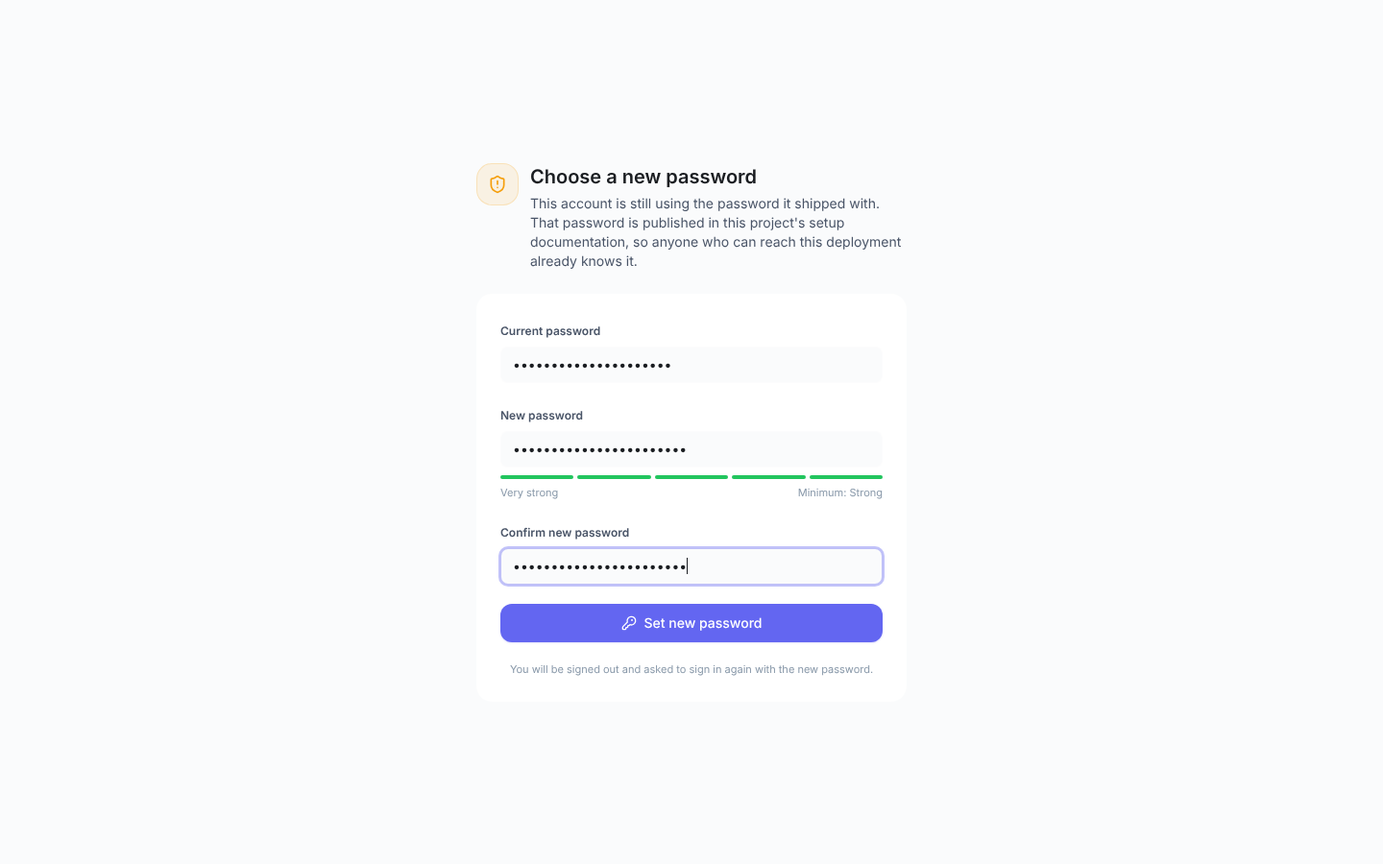
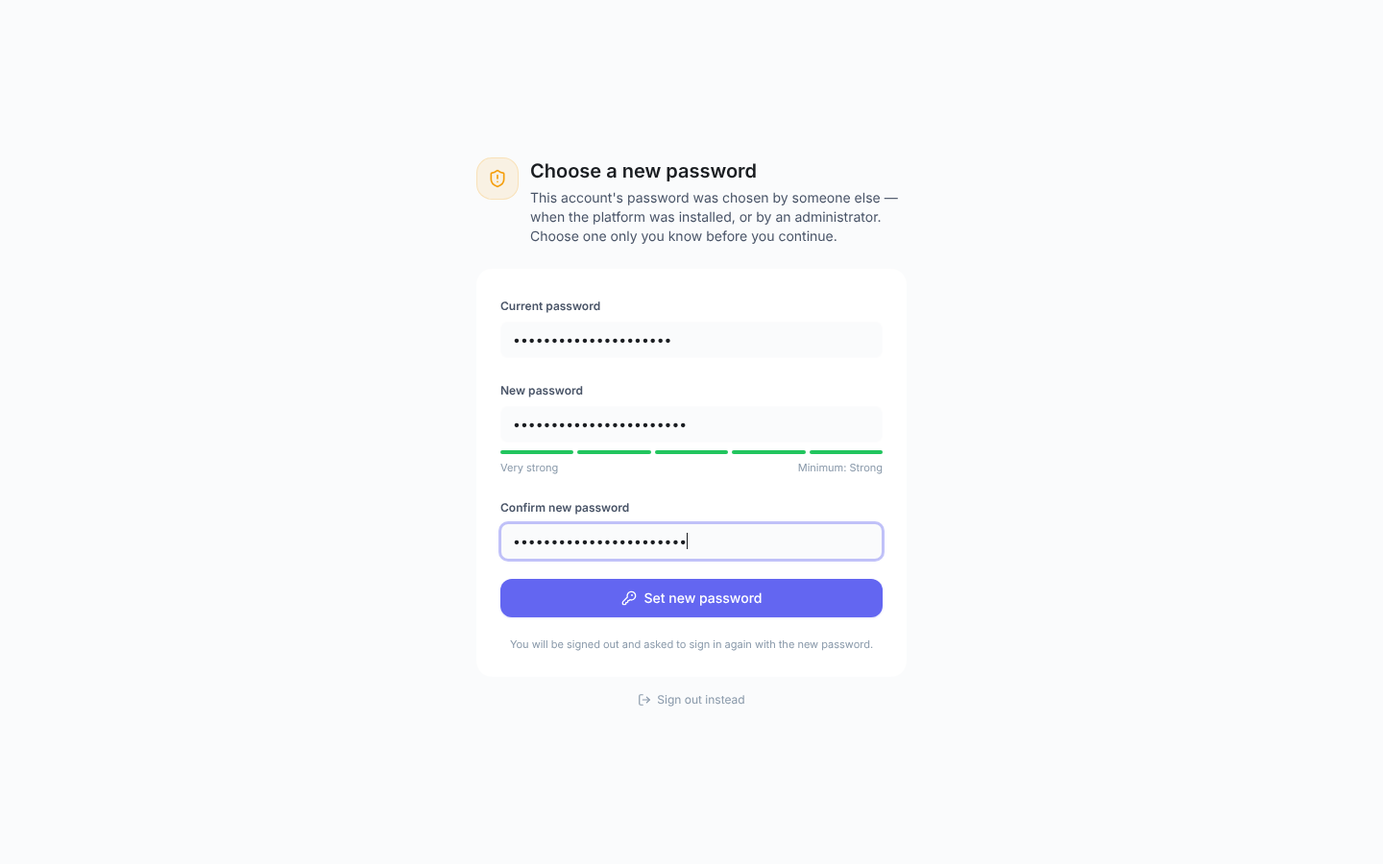
Docs: a password someone else chose is replaced, and the control plane keeps the audit trail
Every page that described the first sign-in said only a published
default password asks for a change. They now say the administrator
replaces whatever password it starts with, and that a password an
administrator sets is replaced the same way: Setup, Deployment's
hardening checklist (with a check that the starting password stops
working), Security Overview, Overview, Contributing, the sign-up plan,
local integration testing, the README and Quickstart, and the guide's
Admin Setup and Users & Access. The Setup page's screenshot of the
change screen is retaken for its new wording and its sign-out link.

The audit pages say the Audit Log reads the outbox and the control
plane's relay copies each event into auth_audit_log; the SSO pages say
the identity-provider health check runs in every API process.

The configuration reference describes ADMIN_PASSWORD's new behaviour.
Seeding reads ADMIN_EMAIL and ADMIN_PASSWORD through small helpers in
a form the generator recognises, so the reference keeps showing the
default email.

The CHANGELOG has Security and Upgrading notes, including that the
product-event retention sweep runs for the first time on upgrade.

Claude-Session: https://claude.ai/code/session_01UvFVgJNvfxynBhuauy9dBs

Changed region(s): [[0.3438, 0.4356, 0.6562, 0.7778], [0.3438, 0.1867, 0.6562, 0.3111], [0.375, 0.3422, 0.4375, 0.4044]]

diff --git a/backend/app/auth/bootstrap.py b/backend/app/auth/bootstrap.py
@@ -46,6 +46,14 @@ PUBLISHED_PASSWORDS = frozenset({
 })
 
 
+def admin_email() -> str:
+    """``ADMIN_EMAIL``, or the default when it is unset or empty."""
+    email = os.getenv("ADMIN_EMAIL")
+    if not email:
+        return DEFAULT_ADMIN_EMAIL
+    return email
+
+
 def starting_password() -> str:
     """``ADMIN_PASSWORD``, or the default when it is unset or empty.
 
@@ -53,7 +61,10 @@ def starting_password() -> str:
     refuses an empty password, so an administrator seeded with one could
     never sign in at all.
     """
-    return os.getenv("ADMIN_PASSWORD") or DEFAULT_ADMIN_PASSWORD
+    password = os.getenv("ADMIN_PASSWORD")
+    if not password:
+        return DEFAULT_ADMIN_PASSWORD
+    return password
 
 
 async def seed_system_admin(session: AsyncSession) -> Optional[str]:
@@ -65,7 +76,7 @@ async def seed_system_admin(session: AsyncSession) -> Optional[str]:
     """
     if await user_repo.count_users(session) != 0:
         return None
-    email = os.getenv("ADMIN_EMAIL") or DEFAULT_ADMIN_EMAIL
+    email = admin_email()
     user = await user_repo.create_user(
         session,
         email=email,

diff --git a/backend/scripts/export_config_reference.py b/backend/scripts/export_config_reference.py
@@ -118,10 +118,10 @@ NOTES: dict[str, tuple[str, str | None]] = {
         "A random shared secret, the same value for every service.",
     ),
     "ADMIN_PASSWORD": (
-        "Password for the first administrator account. If it is one of the example passwords "
-        "published in this repository, the account must change it at first sign-in.",
-        "Your own password for the first administrator account, which is created only when the "
-        "database has no users.",
+        "Starting password for the first administrator account, which must replace it at its "
+        "first sign-in. Unset or empty means `changeme`.",
+        "Your own starting password for the first administrator account, which is created only "
+        "when the database has no users and must replace it at its first sign-in.",
     ),
     "AUTH_ENVIRONMENT_ID": (
         "Short name for this deployment, such as `uat`: 1 to 32 letters, digits, `_` or `-`, "

diff --git a/docs/SIGNUP_USER_SERVICE_PLAN.md b/docs/SIGNUP_USER_SERVICE_PLAN.md
@@ -8,8 +8,8 @@ records which parts of the plan shipped and which didn't.
 
 > **Note:** **Status.** The service shipped: self-registration with administrator approval,
 > invitations, administrator-created accounts, Argon2id password hashing with a server-side
-> strength check, a forced change of the seeded administrator's default password
-> (`must_change_password`), administrator-assisted password reset, per-account rate limits,
+> strength check, a forced change of any password someone else chose — the seeded
+> administrator's and one an administrator sets (`must_change_password`), administrator-assisted password reset, per-account rate limits,
 > and an audit trail built on a transactional outbox. Some of the original plan did not
 > ship: moving the user domain into its own repository and database, publishing events to a
 > message bus, sending email, idempotency keys on sign-up, and UUID v7 identifiers. The
@@ -27,7 +27,7 @@ records which parts of the plan shipped and which didn't.
 | Administrator-created accounts | Shipped | **Add people** in **Administration → User Management**, with a setup link, a password the administrator sets, or single sign-on only. |
 | Password hashing | Shipped | Argon2id. Checking a password costs the same whether or not the account exists. |
 | Password strength | Shipped | The server refuses a password that zxcvbn scores below 3 on its 0 to 4 scale; the forms show a matching meter. |
-| Forced password change | Shipped | When the seeded administrator's password is a shipped default, the account must choose a new one at first sign-in (`must_change_password`). |
+| Forced password change | Shipped | The seeded administrator, and anyone given a password by an administrator, must choose a new one at their next sign-in (`must_change_password`). |
 | Password reset | Shipped, without email | An administrator generates a one-time reset token (valid for 1 hour) or sets a password directly; the user redeems the token on the password-reset page. |
 | Sessions | Shipped, differently from the plan | `HttpOnly` cookies carrying a short-lived access token, with rotating refresh tokens and server-side revocation — not a bearer token kept in `sessionStorage`. |
 | Rate limiting | Shipped | In the application: per-account limits on failed sign-ins and on reset requests, plus per-address flood guards. |
@@ -91,11 +91,12 @@ a weak password is caught before it's submitted.
 
 **The seeded administrator.** On first start with an empty database, the backend creates one
 administrator from `ADMIN_EMAIL` and `ADMIN_PASSWORD` and marks it as a break-glass system
-account. If the password is one of the defaults shipped in the repository, the account is
-flagged `must_change_password`: at sign-in the app takes it to **Choose a new password**, and
-the server — not just the page — enforces the change, refusing with
-`password_change_required` until there's a new password. Setting any new password clears
-the flag.
+account, flagged `must_change_password` whatever its password: at sign-in the app takes it to
+**Choose a new password**, and the server — not just the page — enforces the change, refusing
+with `password_change_required` until there's a new password. At every start, a system account
+still using its starting password, or one published in the repository, is flagged the same way.
+A password an administrator sets for someone else sets the flag too; one the account holder
+sets — on **Account settings**, or with a reset link — clears it.
 
 **Changing your own password.** On **Account settings**, the **Password** card asks for the
 current password. A successful change signs the account out of every device, including the

diff --git a/docs/SECURITY_OVERVIEW.md b/docs/SECURITY_OVERVIEW.md
@@ -75,15 +75,19 @@ The server refuses weak passwords — anything the zxcvbn estimator scores below
 4 scale — at sign-up, password reset, a self-service change, and when an administrator sets
 one. The forms show a matching strength meter as you type.
 
-A new installation creates one administrator from `ADMIN_EMAIL` and `ADMIN_PASSWORD`. If that
-password is one of the defaults shipped with the repository, the account must choose a new
-one before it can work: the app takes it to **Choose a new password**, and the server — not
-just the page — enforces the change, refusing with the error `password_change_required`.
+A new installation creates one administrator from `ADMIN_EMAIL` and `ADMIN_PASSWORD`. Whatever
+that password is, someone other than the administrator chose it, so the account must choose its
+own before it can work: the app takes it to **Choose a new password**, and the server — not
+just the page — refuses every other request with the error `password_change_required`,
+whichever way the request signs in. The same applies to a password an administrator sets for
+someone else, when creating the account or with **Reset password**, and, at every start, to a
+system account still using its starting password or one published in this repository.
 
 **How to configure it.**
 
 - Set `ADMIN_EMAIL` and a strong `ADMIN_PASSWORD` before the first start. They're used only
-  while the database has no users.
+  while the database has no users, and the administrator replaces the password at the first
+  sign-in.
 - Self-registration is off by default. Turn it on with **Administration → Features →
   Self-registration**. Accounts created that way wait for approval in **Administration →
   User Management**. Invitations work either way, unless you also turn off **Invite links**.
@@ -95,8 +99,9 @@ just the page — enforces the change, refusing with the error `password_change_
 **Where in the code.** `backend/auth_service/core/password.py` (`hash_password`,
 `verify_password`), `backend/auth_service/providers/local.py` (`LocalIdentityProvider`),
 `backend/app/api/v1/endpoints/auth.py` (`_check_password_strength`, `signup`),
-`backend/app/auth/dependencies.py` (`get_current_user`, which enforces the forced password
-change).
+`backend/app/auth/dependencies.py` (`_hold_for_password_change`, which every resolver that
+signs a request in applies), `backend/app/auth/bootstrap.py` (the first administrator and the
+check at every start).
 
 ### Single sign-on
 
@@ -563,7 +568,8 @@ These surfaces are off by default in production. Turn one on only when you need 
 **How it works.** A security-relevant change writes an event in the same database transaction
 as the change, so the change can't be saved without its record. A background relay copies each
 event into an audit table (`auth_audit_log`) that the app only ever adds to, skipping any event
-it has already copied. Recorded events include:
+it has already copied. The relay runs in the aggregation control plane (or in-process when the
+whole platform runs as one process), and only one copy of it works at a time. Recorded events include:
 
 - sign-ins and sign-outs, and failed sign-ins with the reason, client address and user agent;
 - sessions refused or revoked, and why;

diff --git a/docs/CONFIGURATION.md b/docs/CONFIGURATION.md
@@ -51,7 +51,7 @@ Then set these:
 | `REDIS_URL` | Your coordination Redis, as this URL or the `REDIS_STREAMS_*` settings. The job bus, session revocation and shared rate limits use it. |
 | `CREDENTIAL_ENCRYPTION_KEY` | A Fernet key, for example from `python -c "from cryptography.fernet import Fernet; print(Fernet.generate_key().decode())"`. Keep it safe: stored credentials cannot be read without it. |
 | `AGGREGATION_INTERNAL_TOKEN` | A random shared secret, the same value for every service. |
-| `ADMIN_PASSWORD` | Your own password for the first administrator account, which is created only when the database has no users. |
+| `ADMIN_PASSWORD` | Your own starting password for the first administrator account, which is created only when the database has no users and must replace it at its first sign-in. |
 | `AUTH_ENVIRONMENT_ID` | A name unique to each environment, for example `production`, if people may have two environments open in the same browser. |
 | `CORS_ALLOWED_ORIGINS` | The address users open the UI at, for example `https://lineage.example.com`. |
 | `ALLOWED_HOSTS` | The host names users reach this deployment at. |
@@ -67,8 +67,8 @@ Sign-in, session tokens and cookies, single sign-on and the sign-in rate limits.
 
 | Variable | Default | Description | Read in |
 |---|---|---|---|
-| `ADMIN_EMAIL` | `admin@nexuslineage.local` | Email address of the first administrator account. The account is created at startup only when the database has no users. | `backend/app/main.py` |
-| `ADMIN_PASSWORD` | — (secret, set your own) | Password for the first administrator account. If it is one of the example passwords published in this repository, the account must change it at first sign-in. | `backend/app/main.py` |
+| `ADMIN_EMAIL` | `admin@nexuslineage.local` | Email address of the first administrator account. The account is created at startup only when the database has no users. | `backend/app/auth/bootstrap.py` |
+| `ADMIN_PASSWORD` | — (secret, set your own) | Starting password for the first administrator account, which must replace it at its first sign-in. Unset or empty means `changeme`. | `backend/app/auth/bootstrap.py` |
 | `ALLOWED_HOSTS` | (empty) | Host names this deployment answers to, comma-separated. When set, the API refuses requests for any other host (health checks excepted), and single sign-on never trusts a host outside the list. Unset accepts any host. | `backend/auth_service/core/config.py` |
 | `AUTH_COOKIE_DOMAIN` | — | Domain attribute of the session cookies. Set it only when the API and the UI are on different subdomains; unset gives host-only cookies. | `backend/auth_service/core/config.py` |
 | `AUTH_COOKIE_SAMESITE` | `lax` | SameSite attribute of the session cookies: `lax`, `strict` or `none`. | `backend/auth_service/core/config.py` |

diff --git a/CHANGELOG.md b/CHANGELOG.md
@@ -53,11 +53,41 @@ the ADRs record what superseded what.
   you had entered. They open a new tab.
 - Four deep links into the docs pointed at headings that don't exist.
 - Guide reading times were typed by hand and had drifted; they are computed from each page.
+- Identity-provider health — reachability and certificate expiry — on the SSO admin pages was
+  empty in every container deployment. Every API process checks it now.
 
 Guards keep this from drifting again: every link the app shows into the guide or docs must open a
 page, every guide page must end by pointing the reader on, every seeded switch, permission and role
 must be documented, every signed-in page must offer help, and the configuration reference must
 match the code.
+
+### Security
+
+- **A password someone else chose has to be replaced.** The first administrator chooses its own
+  password at its first sign-in, whatever `ADMIN_PASSWORD` it was created with; before, only three
+  published values asked for that. The same holds for a password an administrator sets for someone
+  else, when creating the account or with **Reset password**. While the change is pending, the
+  server refuses every request except the change itself, on every route.
+- **Sign-in events reach the audit table in every deployment.** The relay that copies them into
+  the append-only `auth_audit_log` — with the refresh-token and product-event retention sweeps and
+  the analytics warmer — never ran in Docker Compose, Kubernetes or Helm. The control plane runs
+  them now, one copy at a time. The Audit Log also shows changes to the SSO back-channel host
+  list, and **Recent activity** on Account settings shows password resets, reset links, role
+  changes and suspensions done to your account.
+
+### Upgrading
+
+- **The first administrator may be asked for a new password.** At the first start after upgrading,
+  a system account still signing in with its starting password (`ADMIN_PASSWORD`), or with one
+  published in this repository, must choose a new one at its next sign-in. Scripts that sign in
+  as it need the new password afterwards.
+- **The product-event retention sweep runs for the first time.** It deletes product events —
+  views opened, traces and searches, which Analytics counts — older than
+  `PRODUCT_EVENT_RETENTION_DAYS`, 400 days unless you set it. Raise it before upgrading if you
+  want to keep more.
+- **The control plane copies the audit backlog.** On an install where the relay never ran, its
+  first pass copies every event since installation into `auth_audit_log`, continuously until it
+  has caught up.
 
 ### Known limitations
 

diff --git a/docs/guide/USERS_ACCESS.md b/docs/guide/USERS_ACCESS.md
@@ -156,7 +156,7 @@ first. It works whether or not invite links are switched on.
    | Choose | When | What happens |
    | --- | --- | --- |
    | **Send them a setup link** | Most of the time | The account has no password until they choose one; nobody else ever knows it. |
-   | **Set a password yourself** | One person, and you'll pass it on | At least 12 characters. You will know their password, and nothing sends it for you. Not offered for a list. |
+   | **Set a password yourself** | One person, and you'll pass it on | At least 12 characters. Nothing sends it for you, and they choose their own the first time they sign in. Not offered for a list. |
    | **Single sign-on only** | They sign in through your identity provider | No password at all. |
 
    **Active straight away** is ticked; untick it to park the accounts in the
@@ -359,7 +359,7 @@ Each row has the actions for that account's state:
 | **Edit profile** | Change their name. Email is fixed, because it identifies them to an identity provider. |
 | **Change organization access** | Set their organization-wide role (see [Roles](#roles)). |
 | **Mark as system account** | Make it a break-glass account (see below). |
-| **Reset password** | **Generate Token** (a one-time token they enter at `/reset-password`) or **Set Password** directly. |
+| **Reset password** | **Generate Token** (a one-time token they enter at `/reset-password`) or **Set Password** directly; a password you set is one they replace the next time they sign in. |
 | **End sessions** | Sign them out everywhere, now. They can sign straight back in. |
 | **Suspend user** / **Reactivate** | Stop the account signing in — immediately — or let it back in. |
 
@@ -390,11 +390,11 @@ pass the token on.
 ## The system administrator account
 
 A fresh deployment creates one administrator from its `ADMIN_EMAIL` and
-`ADMIN_PASSWORD` settings. If that password is one of the defaults published
-in this project's setup documentation, the account must choose a new password
-at first sign-in — the API refuses everything else until it does. Supply your
-own `ADMIN_PASSWORD` and no prompt appears. **User Management** shows a
-**DEFAULT PASSWORD** badge against an account still in that state.
+`ADMIN_PASSWORD` settings. Whatever that password is, the account must choose a
+new one at its first sign-in — the API refuses everything else until it does.
+The administrator changes it again whenever they like on **Account settings**.
+**User Management** shows a **MUST CHANGE PASSWORD** badge against any account
+that still has to choose its own password.
 
 ### System accounts (break-glass)
 

diff --git a/docs/SSO_INTEGRATION.md b/docs/SSO_INTEGRATION.md
@@ -374,8 +374,8 @@ Bootstrapping order (the `app.main.lifespan` entry point):
 3. FastAPI mounts `auth_session_router` at `/api/v1/auth` and
    every admin router under `/api/v1/admin/*`.
 
-   7. The IdP health loop is started **only if `runs_scheduler()`** —
-      see §3.6.
+   7. The IdP health loop is started in every process that serves the
+      API — see §3.6.
 
 If you ever touch the bootstrap order, run the auth suite — most
 isolation regressions surface as `RuntimeError("IdentityService not
@@ -395,15 +395,18 @@ Three constraints shaped that, and each one is load-bearing:
   ("this storm hit the backend on every cold boot"). Doing it for IdPs
   would re-introduce a bug this codebase already paid for. Mirror the
   provider-warmup architecture instead.
-* **Gated on `runs_scheduler()`**, so N replicas do not run N sweeps
-  against the same IdPs.
+* **In every process that serves the API.** The cache is per process and
+  the endpoint reads its own process's copy; gated on the scheduler role,
+  as it first was, web replicas — every container deployment — served an
+  empty cache. The cost is one discovery or metadata fetch per provider
+  per process every 15 minutes; back-channel providers are not contacted.
 * **Shutdown via `await asyncio.wait_for(shutdown.wait(), timeout=interval)`**,
   the idiom from `outbox_relay.py` — not a bare `asyncio.sleep`, which
   would make every deploy wait out the interval.
 
-A replica that runs no schedulers serves an empty cache. That is expected:
-the provider list must render regardless, so the frontend treats the health
-read as separate and non-fatal.
+A process that has just started serves an empty cache until its first
+sweep finishes. The provider list must render regardless, so the frontend
+treats the health read as separate and non-fatal.
 
 Certificate expiry must be computed **server-side** — `idp_x509_cert` is a
 secret field and is redacted on read, so the UI cannot parse it. Note
@@ -1351,7 +1354,8 @@ Almost always one of:
   re-run `upgrade`.
 * **Postgres connection cycling** — relay reconnects each tick; if
   every tick fails, check the DB. The relay does NOT retry within
-  a tick; it relies on the loop.
+  a tick; it relies on the loop. In a split deployment it runs in the
+  aggregation control plane, so its warnings are in that service's log.
 * **A genuinely deleted table** — someone ran a destructive
   migration. Restore from the WAL or backups.
 

diff --git a/docs/TECHNICAL_DEBT.md b/docs/TECHNICAL_DEBT.md
@@ -817,7 +817,7 @@ memory. Delete an entry when it stops being interesting.
 | **Sparse test coverage / no frontend tests (HIGH)** | 641 backend test files and 699 frontend ones. | `backend/tests/`, `frontend/src/**/*.test.*` |
 | **No integration tests (MEDIUM)** | 118 files. | `backend/tests/integration/` |
 | **No React error boundaries (MEDIUM)** | Route-level and panel-level boundaries, wired into the router, the app shell and the canvas. | `frontend/src/components/RouteErrorBoundary.tsx`, `.../PanelErrorBoundary.tsx`, `.../ErrorBoundary.tsx` |
-| **Outbox consumer missing (HIGH)** | The relay drains `outbox_events` into `auth_audit_log` on the CONTROLPLANE/DEV process, flipping `processed` in the same transaction. Idempotent via a UNIQUE `source_event_id`, so a crash mid-write cannot double-record. | `backend/app/services/outbox_relay.py` |
+| **Outbox consumer missing (HIGH)** | The relay drains `outbox_events` into `auth_audit_log` in the aggregation control plane (and in a dev monolith), flipping `processed` in the same transaction; each pass holds an advisory lock, so two control planes never relay at once. Idempotent via a UNIQUE `source_event_id`, so a crash mid-write cannot double-record. | `backend/app/services/outbox_relay.py` |
 | **In-cluster single-replica data tier (CRITICAL)** | The production overlay replaces the in-cluster Postgres and Redis StatefulSets with Cloud SQL and Memorystore, with streams and cache as separate instances. FalkorDB stays self-managed by design. | `deploy/k8s/overlays/production/patches/managed-data-tier.yaml` |
 | **FalkorDB durability and recovery (HIGH)** | Backup CronJob plus a written restore procedure covering snapshot restore, reseed from Cloud SQL, and region loss. *Rehearsing* it is still an operational exercise, not a documentation gap — and §1.3 asks whether the Kubernetes volume it backs up holds the data at all. | [FALKORDB_DR_RUNBOOK.md](FALKORDB_DR_RUNBOOK.md); `deploy/k8s/overlays/production/resources/falkordb-dr-backup.yaml` |
 | **Container image-naming drift (CRITICAL)** | Every image reference aligned across base, overlays and the Makefile; the production `newTag` fixed. Where the images are built and pulled from is still open: §2.4. | commits `d8fa3953`, `1ef7bc9c` |

diff --git a/docs/DEPLOYMENT.md b/docs/DEPLOYMENT.md
@@ -268,13 +268,16 @@ provider that has a password; the Kubernetes manifests already give it to them.
   entered again. *Verify:*
   `docker compose exec viz-service sh -c 'test -n "$CREDENTIAL_ENCRYPTION_KEY" && echo set'`
   prints `set`.
-- [ ] **Give the first administrator a strong, unique `ADMIN_PASSWORD`.** *Protects:* the
-  deployment's break-glass account — it keeps password sign-in when single sign-on is
-  enforced, and forced sign-out sweeps skip it. The value is read only while no user exists,
-  so changing it in `.env` later does nothing: change the password on **Account settings**
-  (`/me/account`), or follow [Reset an administrator's password](/docs/runbooks#reset-an-administrators-password).
-  *Verify:* the first sign-in doesn't ask you to change the password — it does when the
-  value is one of the example passwords published in this repository.
+- [ ] **Give the first administrator a strong, unique `ADMIN_PASSWORD`, and replace it at the
+  first sign-in.** *Protects:* the deployment's break-glass account — it keeps password
+  sign-in when single sign-on is enforced, and forced sign-out sweeps skip it. The value sits
+  in your `.env`, so the account must choose its own password at its first sign-in before it
+  can do anything else; an existing installation whose administrator still uses that value,
+  or a password published in this repository, is made to change it at its next sign-in. The
+  value is read only while no user exists, so changing it in `.env` later does nothing:
+  change the password on **Account settings** (`/me/account`), or follow
+  [Reset an administrator's password](/docs/runbooks#reset-an-administrators-password).
+  *Verify:* after the change, signing in with the `ADMIN_PASSWORD` value fails.
 - [ ] **Set `AUTH_ENVIRONMENT_ID` if people open more than one environment in the same
   browser.** *Protects:* sessions of two deployments that would otherwise share cookie names
   and sign each other out. Use 1–32 characters of `a-z`, `0-9`, `_` and `-`, starting with a

diff --git a/docs/guide/ADMIN_SETUP.md b/docs/guide/ADMIN_SETUP.md
@@ -42,18 +42,18 @@ if you later make single sign-on compulsory.
 
 1. Open {brand}. On the sign-in page, enter the **Email** and **Password**, then
    select **Enter Workspace**.
-2. If the deployment still uses a default password from the setup
-   documentation, the **Choose a new password** page opens instead of the app.
-   Enter the **Current password**, a **New password** (at least 8 characters,
-   rated **Strong** or better) and **Confirm new password**, then select **Set
-   new password**.
+2. The **Choose a new password** page opens instead of the app: the starting
+   password was set when the platform was installed, so it's replaced with
+   one only you know. Enter the **Current password**, a **New password** (at
+   least 8 characters, rated **Strong** or better) and **Confirm new
+   password**, then select **Set new password**.
 3. You are signed out. Sign in again with your new password.
 
 **You should now see** the **Dashboard**, with **Ingestion**, **Workspaces**,
 **Semantic Layers** and **Administration** in the sidebar.
 
 > **If every page sends you back to "Choose a new password":** that's expected.
-> Nothing else works until the default password is replaced.
+> Nothing else works until the starting password is replaced.
 
 ---
 
